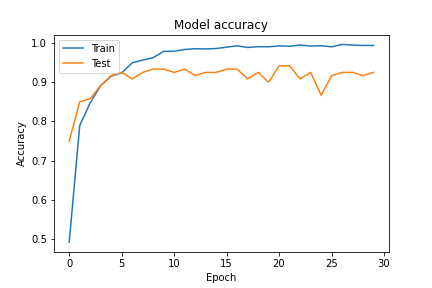
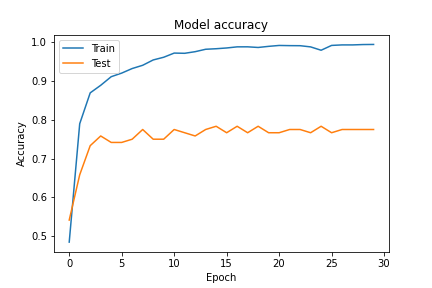
Add new aug

diff --git a/data_prepocess.py b/data_prepocess.py
@@ -57,6 +57,8 @@ if __name__ == '__main__':
         rows = csv.reader(csvfile)
         label = list(rows)
         
+    with open('data_extend/Other.pkl', 'rb') as fp:
+        noise = pickle.load(fp)
     label.remove(label[0])
     mel_list = []
     other = []
@@ -103,7 +105,8 @@ if __name__ == '__main__':
     aug = augf.Sometimes([ag.VtlpAug(8000, zone=(0,1)),
                           ag.ShiftAug(8000, 1.5),
                           ag.SpeedAug(factor=(0.5, 1.5),zone=(0, 1)),
-                          ag.LoudnessAug(zone=(0,1))])
+                          ag.LoudnessAug(zone=(0,1)),
+                          ag.NoiseAug(noises=noise)])
     for data in X_train:
         wave, sr = librosa.load('train/'+data[0]+'.wav', sr=None)
         # wave =speech_roi(wave)

diff --git a/eval_test.py b/eval_test.py
@@ -26,7 +26,7 @@ for i, np_file in enumerate(LABEL):
 for i, mel_list in enumerate(wave_list):
     for mel in mel_list:
         idx_true = i
-        mel = mel.reshape(1, 120, 150, 1)
+        mel = mel.reshape(1, 120, 499, 1)
         pred = model.predict(mel)
         value = np.max(pred)
         idx_pred = np.argmax(pred)
